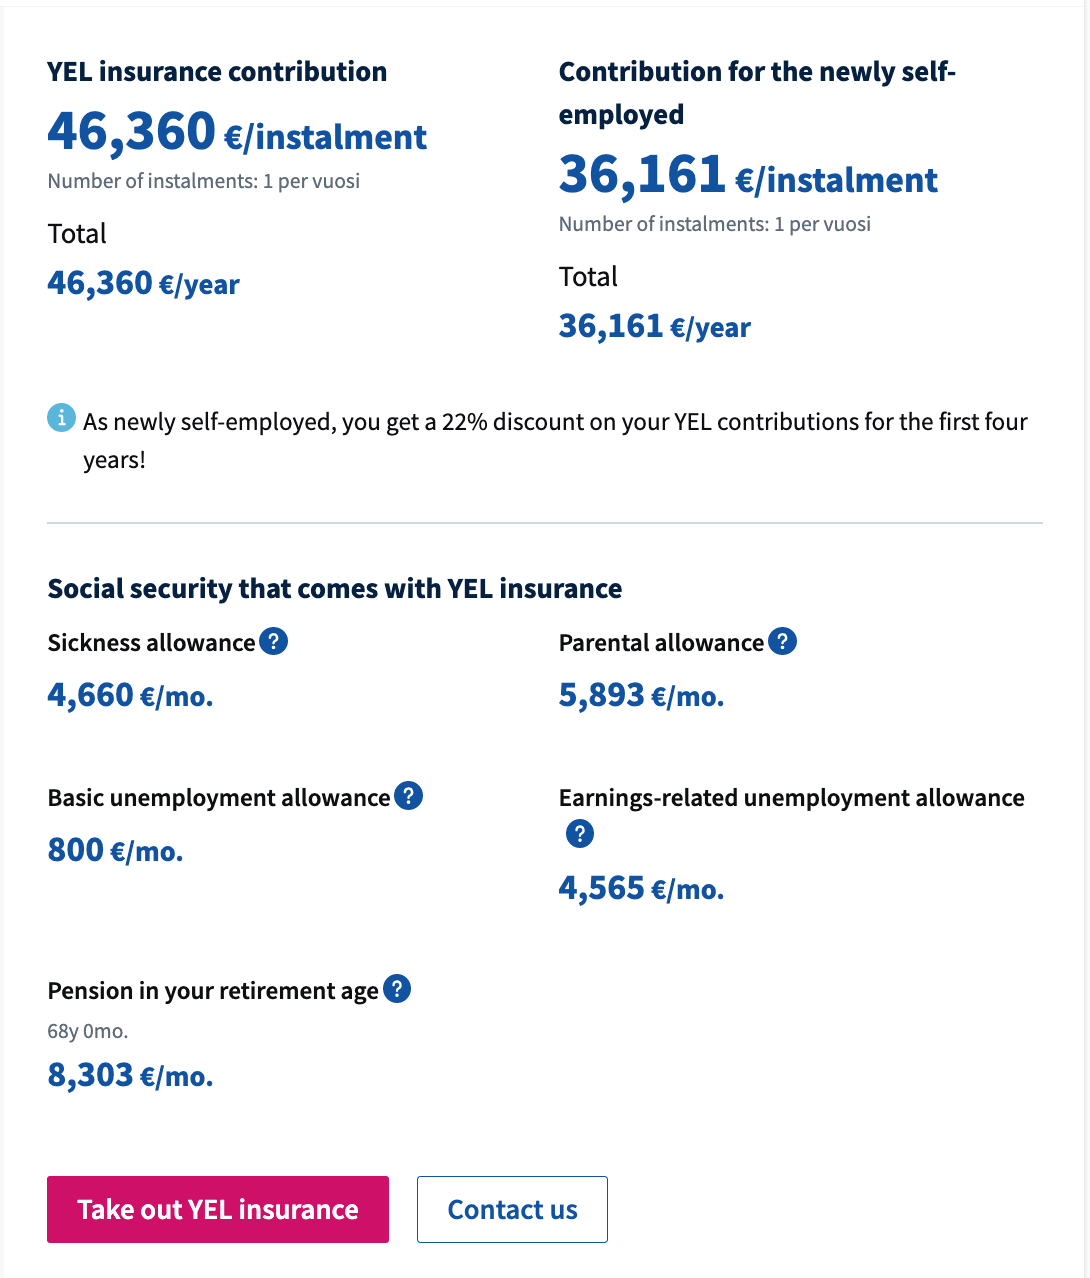
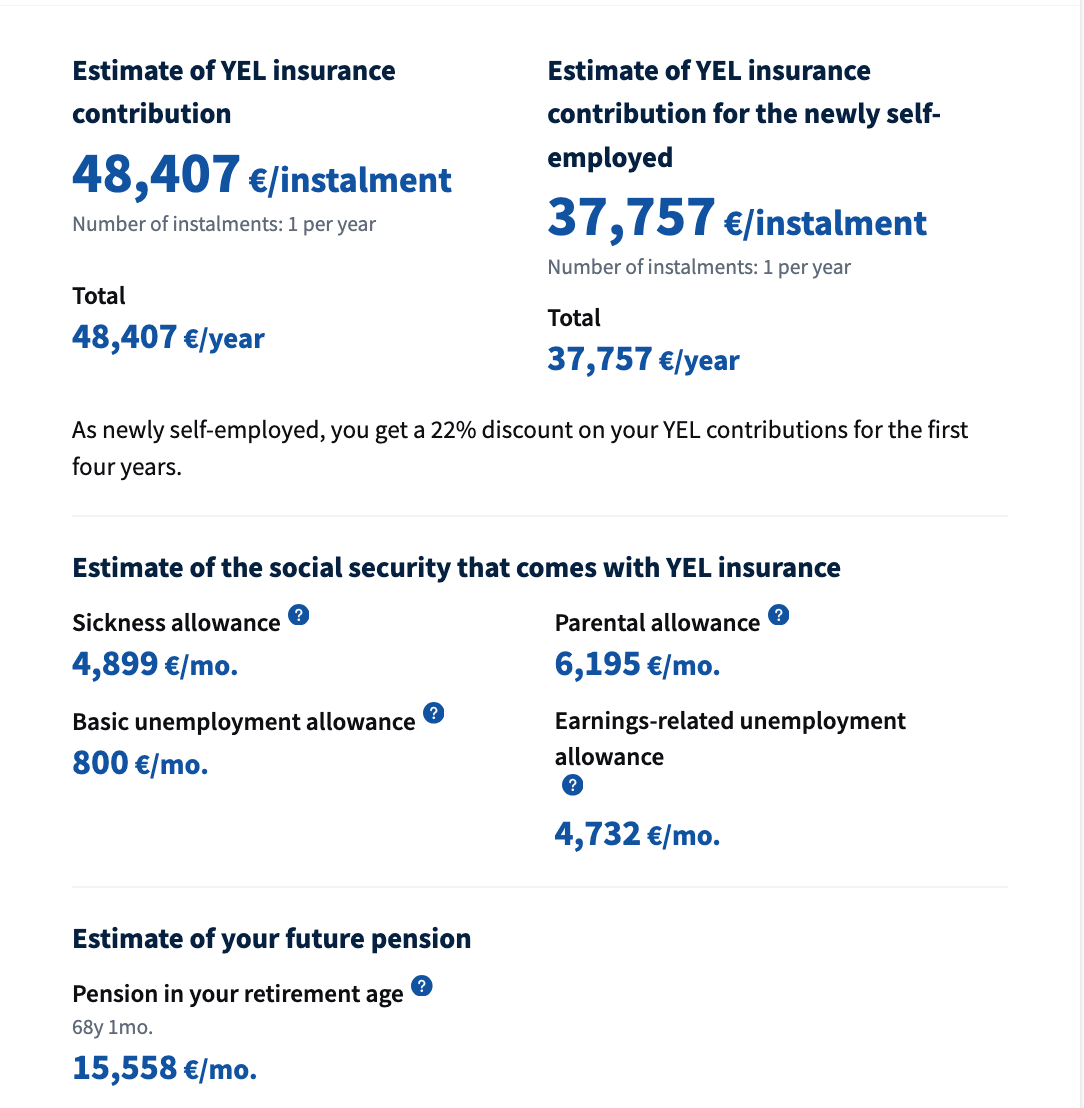
update YEL for 2025 figures

Changed region(s): [[0.0304, 0.0307, 0.9437, 0.7671], [0.0304, 0.7671, 0.4262, 0.9819], [0.3958, 0.9206, 0.548, 0.9819]]

diff --git a/README.md b/README.md
@@ -468,12 +468,12 @@ will sell you one without YEL. Because *YEL is the foundation* and a private hea
 * `YEL income`:
   * Has absolutely nothing to do with your real world income (salary, benefits, dividends, etc).
   * Is how much ***coverage*** you will have in social security benefits.
-  * Has a <ins>**minimum**</ins> of ~8,600€ and a <ins>**maximum**</ins> of ~194,500€ per year.
+  * Has a <ins>**minimum**</ins> of ~9,300€ and a <ins>**maximum**</ins> of ~204,500€ per year.
   * Before 2023, you had complete freedom to choose the minimum.
   * From 2023, you must [estimate the correct level of YEL income](https://www.varma.fi/en/self-employed/yel-insurance/determination-of-yel-income/) and select it accordingly.
 * `YEL contribution`:
   * Is how much you **pay** for your ***coverage***.
-  * Is ~19% of your `YEL income`, which means you pay ~1,600€ up to ~36,200€ per year as a business cost.
+  * Is ~19% of your `YEL income`, which means you pay ~1,750€ up to ~37,800€ per year as a business cost.
 
 Minimum YEL                |  Maximum YEL
 :-------------------------:|:-------------------------:
@@ -490,9 +490,9 @@ Minimum YEL                |  Maximum YEL
 **Steps**:
 
 * You have 6 months from starting self-employment to buy YEL.
-    * If, however, your company has not had income equal to minimum `YEL income`, i.e. ~8,600€, you do not need to buy YEL yet.
+    * If, however, your company has not had income equal to minimum `YEL income`, i.e. ~9,300€, you do not need to buy YEL yet.
     * When your company gets income above the level of minimum `YEL income`, you'll have to buy YEL within the 6 months mentioned above.
-    * Even though you have 6 months to buy YEL, if e.g. you had to buy YEL from the 3rd month because that's when your company had more than ~8,600€ of income,
+    * Even though you have 6 months to buy YEL, if e.g. you had to buy YEL from the 3rd month because that's when your company had more than ~9,300€ of income,
       even if you buy YEL in the 5th month, you'll have to select the starting date of YEL to be from the 3rd month as that's the date when you were obligated to buy YEL anyway.
 
 * Buy YEL from an YEL insurance provider:
